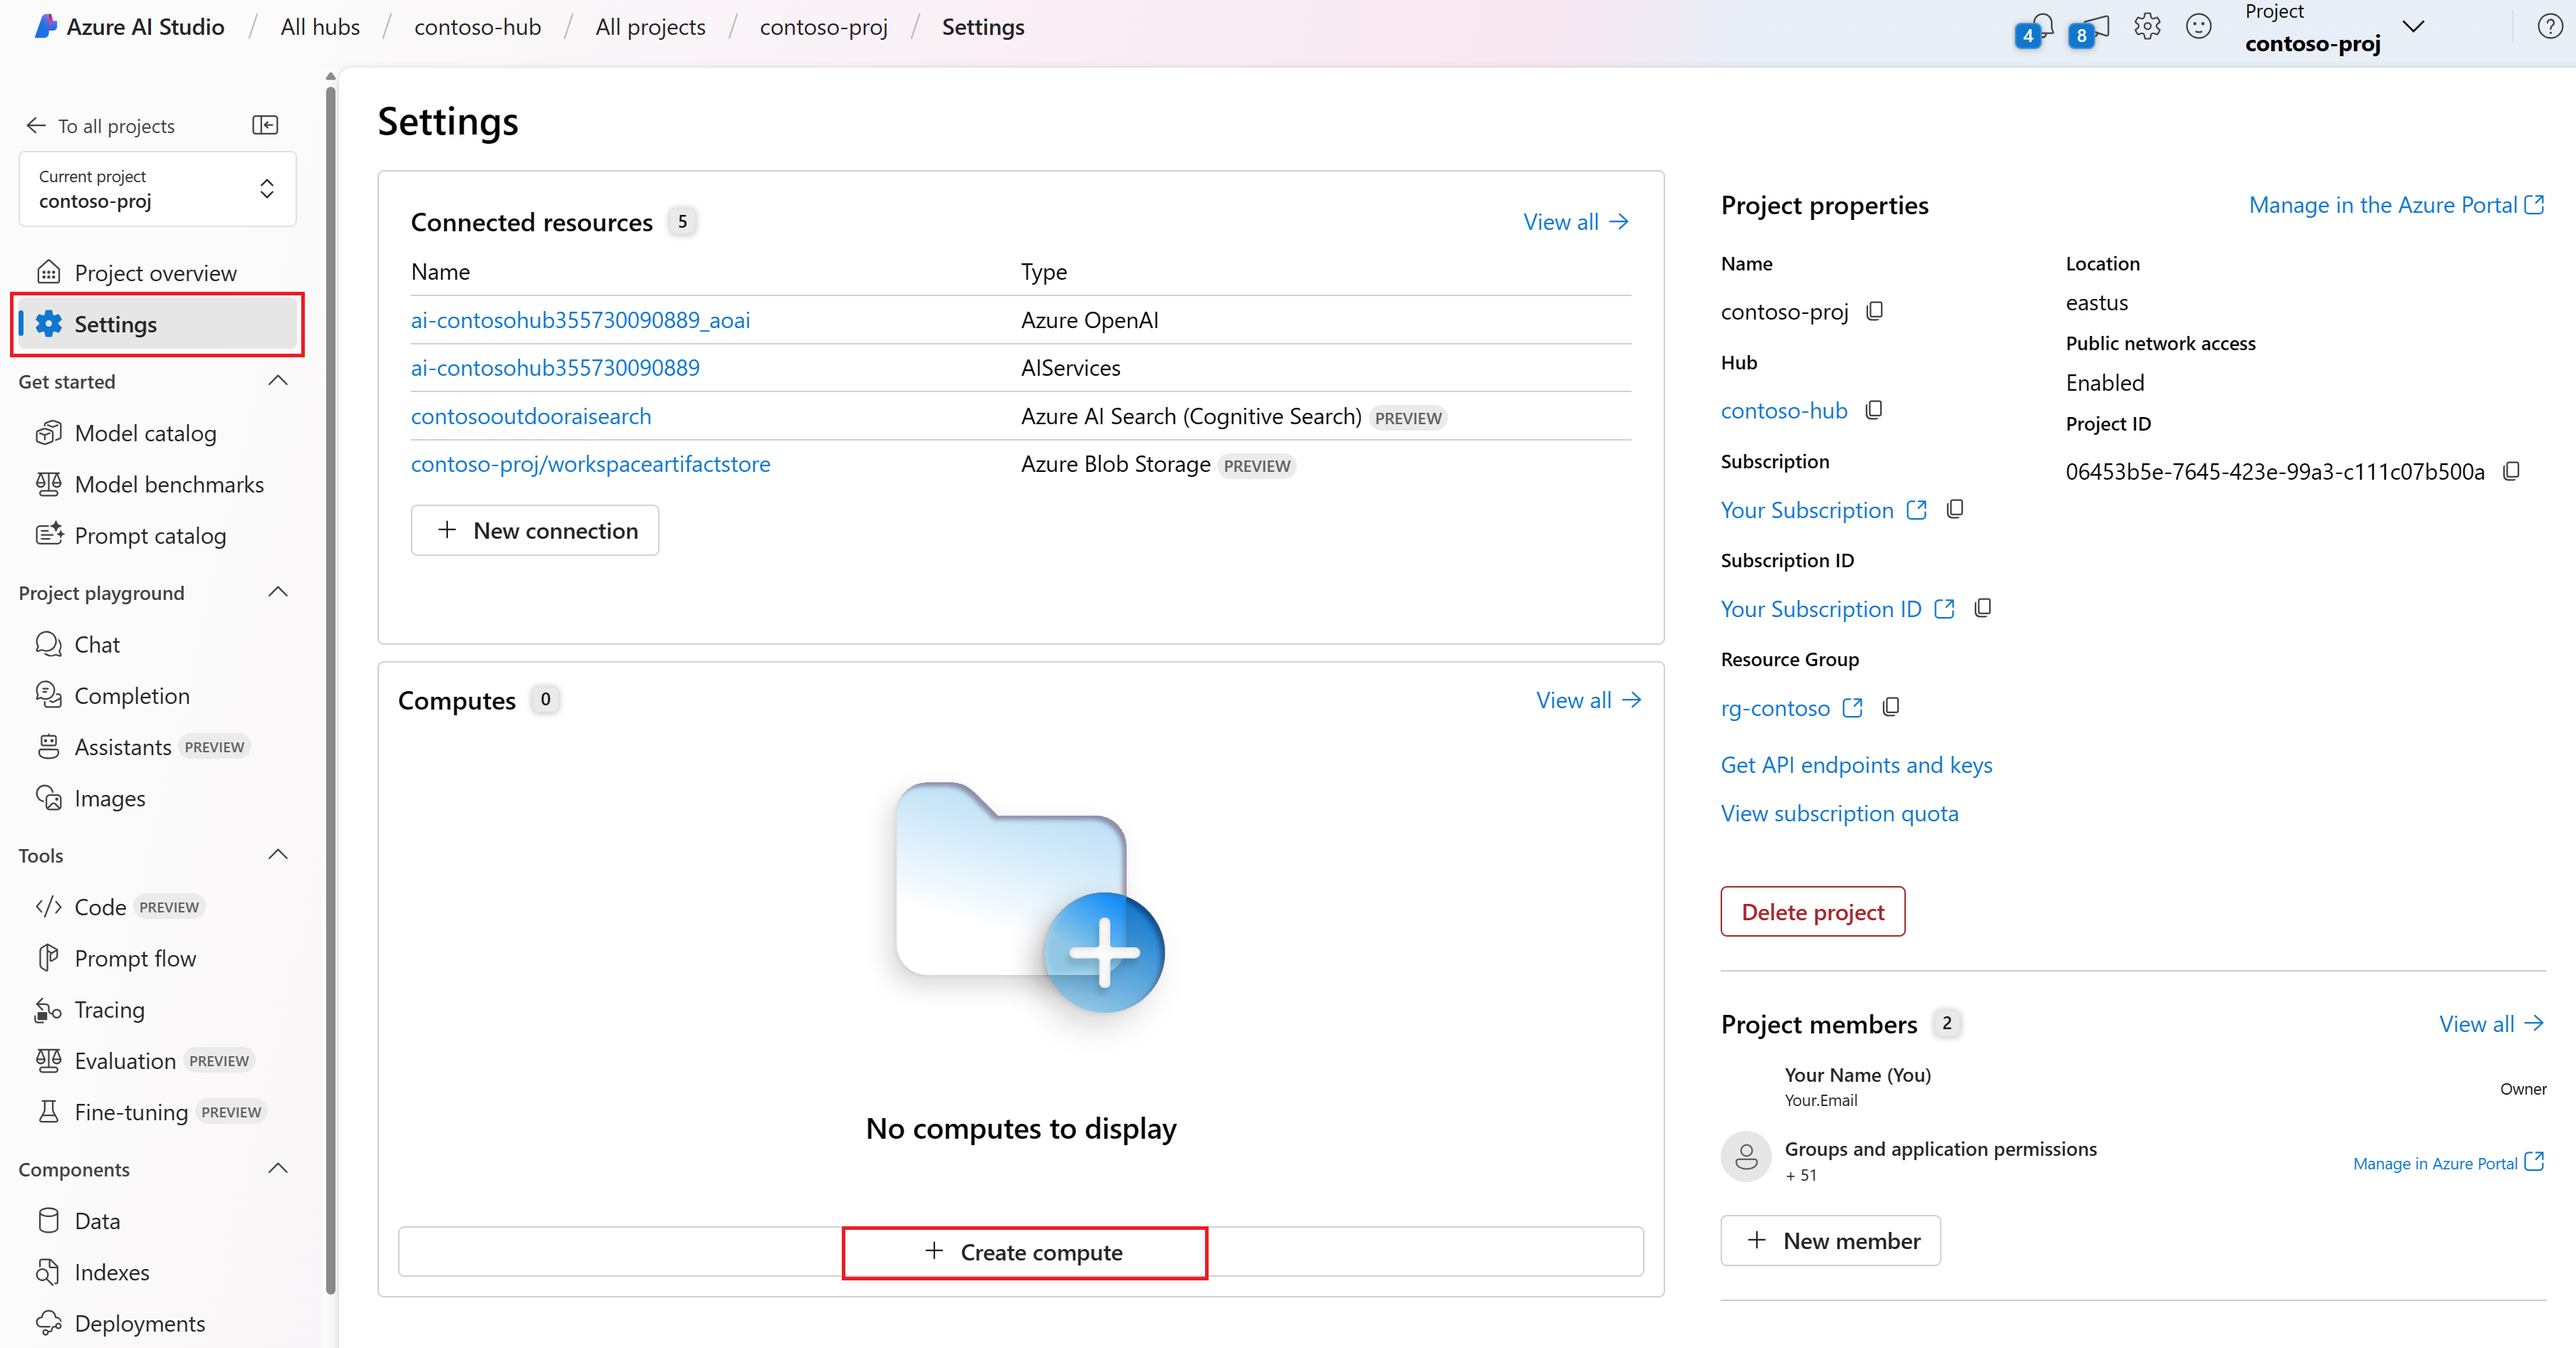
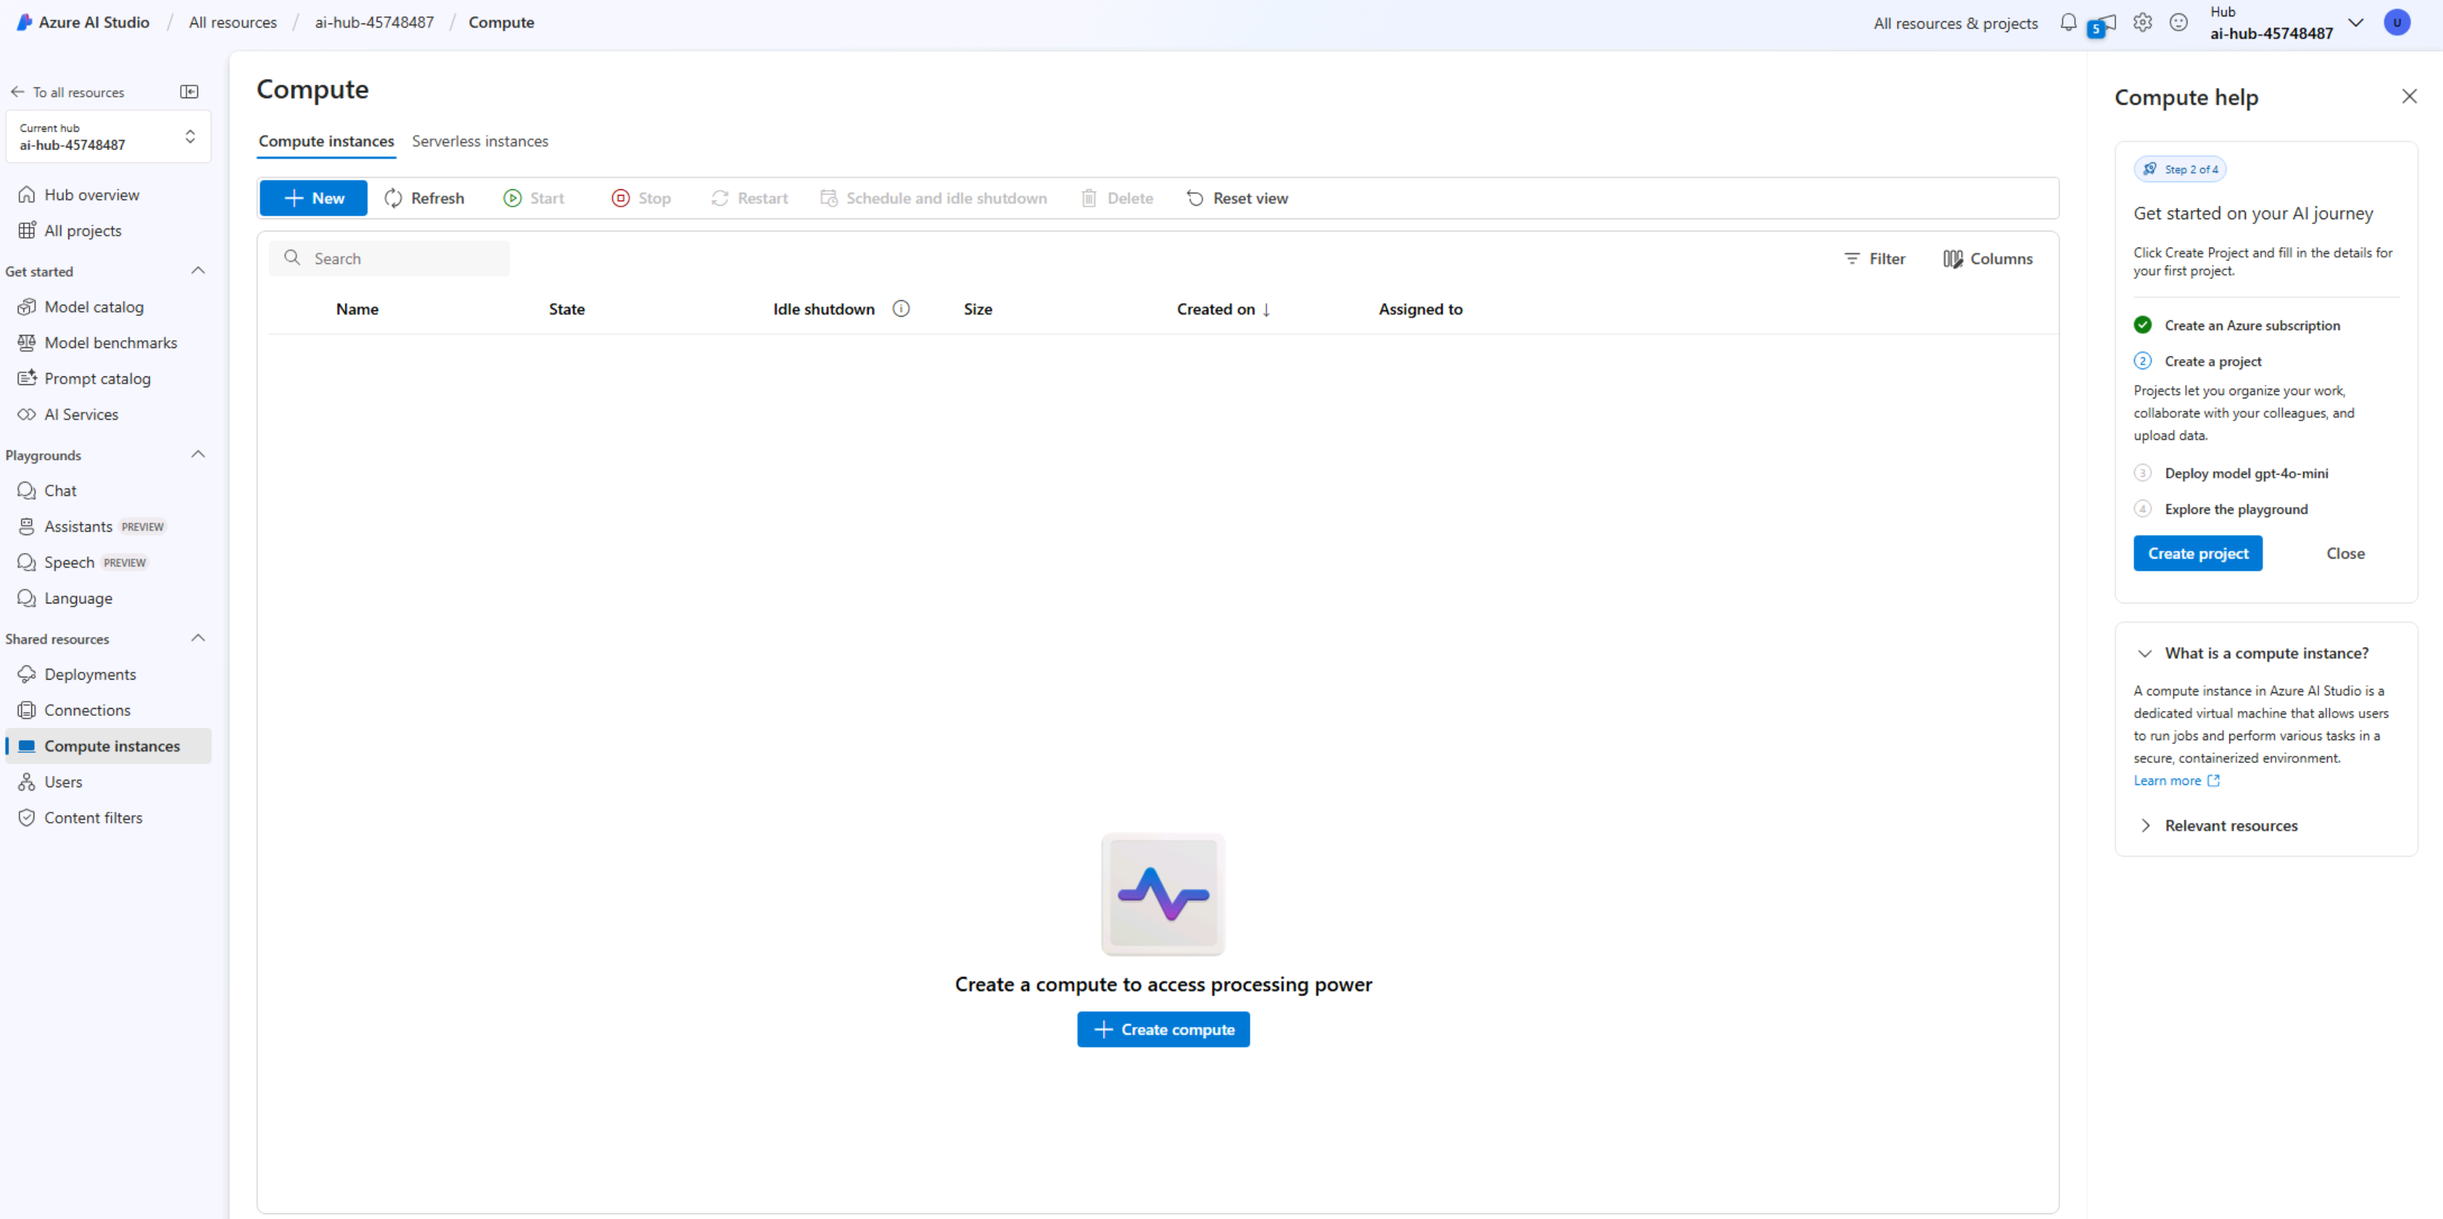
Update

diff --git a/lab/workshop-instructions/Lab1_Compute_Setup/readme.md b/lab/workshop-instructions/Lab1_Compute_Setup/readme.md
@@ -8,14 +8,15 @@ You start by creating an Azure AI project within an Azure AI hub:
 1. In a web browser, open +++https://ai.azure.com+++ and sign in using the Azure credentials provided.
 1. Select the **Home** 
 1. You should have a valid **current project** and **Hub**
+1. Select **Hub**
 
 # Create your Cloud Compute Resources for Cloud based inference
 
-1. Under **Settings**, **Compute**, select **Create Compute**.
+1. Under **Shared resources**, **Compute Instances**, select **Create Compute**.
 
   ![Create Azure AI Compute](./images/compute-create.png)
 
-2. Select your **Virtual machine type** as **GPU**. *Filter* the list of **Virtual machine size** is a **A100**: 
+2. Select your **Virtual machine type** as **GPU**. 
     
   ![Compute Size](./images/compute-size.png)
 
@@ -26,7 +27,6 @@ You start by creating an Azure AI project within an Azure AI hub:
 3. Select a **VM Standard NC24ads_A100v4**  **24 cores**
 
 4. Select **Review+Create**
-
 
 5. On the Review Screen, we want to ensure the machine doesnt autoshutdown during the lab 
 
